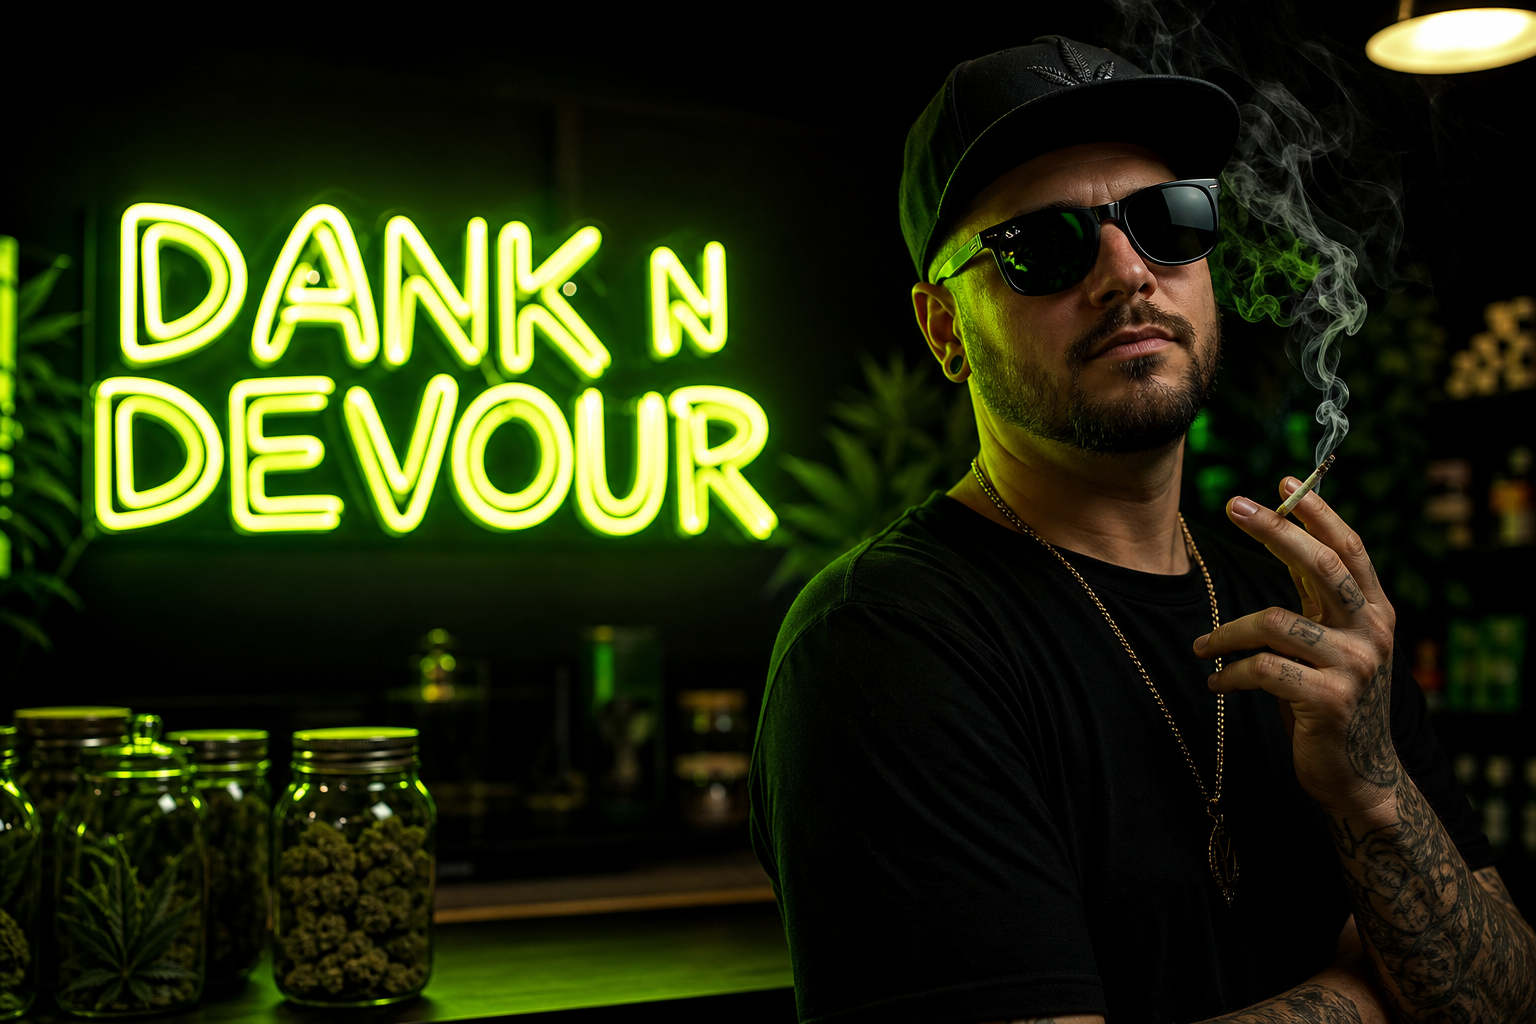
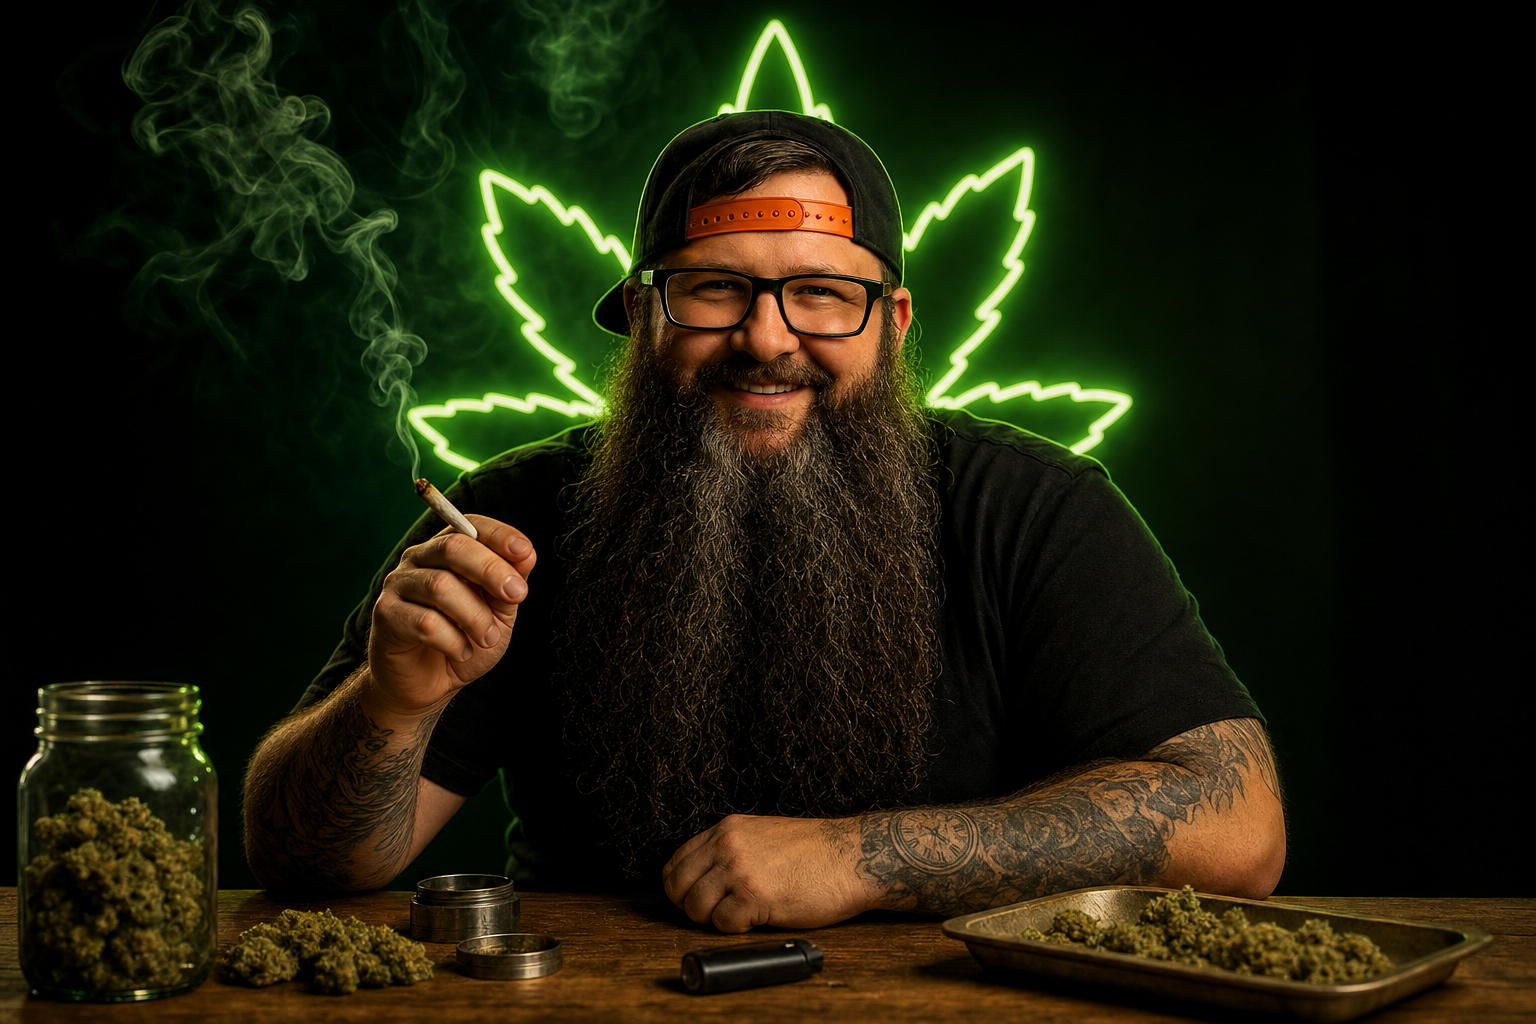
updated imagery

diff --git a/src/components/home/WakeNBakeAdvert.tsx b/src/components/home/WakeNBakeAdvert.tsx
@@ -1,0 +1,34 @@
+import Image from "next/image";
+import { SITE_IMAGES } from "@/data/brand";
+
+export function WakeNBakeAdvert() {
+  return (
+    <section className="bg-black py-8 md:py-10">
+      <div className="mx-auto max-w-[1400px] px-4">
+        <div className="flex items-center gap-5 rounded-2xl border border-white/10 bg-surface/50 px-5 py-4 sm:gap-6 sm:px-6 sm:py-5">
+          <Image
+            src={SITE_IMAGES.wakeNBakeLogoFull}
+            alt="Wake N Bake Coffee Co."
+            width={80}
+            height={80}
+            className="h-16 w-16 shrink-0 rounded-full object-cover sm:h-20 sm:w-20"
+          />
+          <div className="min-w-0 flex-1">
+            <p className="font-nav text-[10px] tracking-[0.2em] text-foreground-muted sm:text-xs">
+              Future Project
+            </p>
+            <h3 className="font-display text-lg text-white sm:text-xl">
+              Wake N Bake Coffee Co.
+            </h3>
+            <p className="mt-0.5 text-xs text-foreground-muted sm:text-sm">
+              Premium small batch coffee. Rise. Grind. Unwind.
+            </p>
+          </div>
+          <span className="shrink-0 rounded-full border border-accent/40 bg-accent/10 px-3 py-1.5 font-nav text-[10px] tracking-widest text-accent sm:px-4 sm:text-xs">
+            Launching Soon
+          </span>
+        </div>
+      </div>
+    </section>
+  );
+}

diff --git a/src/components/SiteFooter.tsx b/src/components/SiteFooter.tsx
@@ -5,6 +5,7 @@ import {
   FOOTER_QUICK_LINKS,
   FOOTER_RESOURCES,
   FOOTER_SUPPORT,
+  SITE_IMAGES,
   SOCIAL_LINKS,
 } from "@/data/brand";
 import { EmailSignup } from "@/components/home/EmailSignup";
@@ -66,10 +67,23 @@ export function SiteFooter() {
             </p>
           </div>
 
-          <p className="mt-6 text-xs text-foreground-muted/60">
-            Future Projects: Wake N Bake Coffee —{" "}
-            <span className="italic">Roasting Soon.</span>
-          </p>
+          <div className="mt-6 flex flex-col items-start gap-4 sm:flex-row sm:items-center">
+            <div className="flex items-center gap-4">
+              <Image
+                src={SITE_IMAGES.wakeNBakeLogo}
+                alt="Wake N Bake Coffee Co."
+                width={72}
+                height={72}
+                className="h-16 w-16 rounded-full object-cover"
+              />
+              <p className="text-xs text-foreground-muted/60">
+                Future Projects:{" "}
+                <span className="text-foreground-muted">Wake N Bake Coffee</span>
+                {" — "}
+                <span className="italic">Roasting Soon.</span>
+              </p>
+            </div>
+          </div>
         </div>
       </div>
     </footer>

diff --git a/src/app/page.tsx b/src/app/page.tsx
@@ -6,6 +6,7 @@ import { FeaturedRow } from "@/components/home/FeaturedRow";
 import { FeatureGrid } from "@/components/home/FeatureGrid";
 import { HomeHero } from "@/components/home/HomeHero";
 import { LatestEpisodes } from "@/components/home/LatestEpisodes";
+import { WakeNBakeAdvert } from "@/components/home/WakeNBakeAdvert";
 import { BRAND } from "@/data/brand";
 import { getProducts } from "@/lib/fourthwall";
 import { getReviewsList } from "@/lib/reviews";
@@ -49,6 +50,7 @@ export default async function HomePage() {
       <FeatureGrid products={products} />
       <DankGrowSection />
       <DevourSection />
+      <WakeNBakeAdvert />
     </div>
   );
 }

diff --git a/src/components/home/EmailSignup.tsx b/src/components/home/EmailSignup.tsx
@@ -50,7 +50,7 @@ export function EmailSignup() {
         <div className="relative hidden min-h-[320px] overflow-hidden rounded-2xl lg:block">
           <Image
             src={SITE_IMAGES.newsletter}
-            alt="Dank N Devour creator"
+            alt="Dan — Dank N Devour"
             fill
             className="object-cover object-top"
             sizes="(max-width: 1024px) 0vw, 40vw"

diff --git a/src/data/brand.ts b/src/data/brand.ts
@@ -48,6 +48,8 @@ export const SITE_IMAGES = {
   featureExplore: "/images/feature-explore.jpg",
   featureBoofmap: "/images/feature-boofmap.jpg",
   featureGrow: "/images/feature-grow.jpg",
+  wakeNBakeLogo: "/images/wakenbake-logo-no-person.png",
+  wakeNBakeLogoFull: "/images/wakenbake-logo.png",
 } as const;
 
 export interface CategoryCard {
